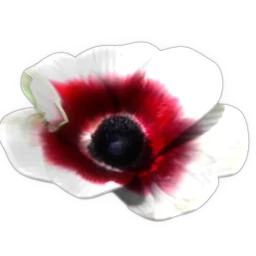
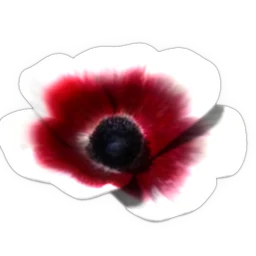
psyche-0.com: the anemone's white-violet, lilac and white/red-ring flowers repaired after the model: the photographs' own petal edges, folds, frills and curled petal removed, colour and fine material kept, every edge and shadow from the model; the scarlet row unchanged

diff --git a/assets/anemone.js b/assets/anemone.js
@@ -4,7 +4,7 @@
 (function(){
   var mark=document.querySelector("header.site .bar a.mark");
   if(!mark||document.querySelector(".anemone"))return;
-  var M={"size":256,"na":72,"looks":[{"name":"S_L","er":29.21,"prof":[130.4,129.8,128.3,123.7,107.9,108.8,107.9,106.7,105.5,101.9,97.3,94.3,92.2,89.4,84.3,78.2,71.9,63.7,58.5,54.0,52.8,55.2,59.1,63.4,67.6,70.9,72.8,74.3,75.5,77.3,83.7,93.1,102.5,109.5,113.7,116.4,121.0,123.1,121.0,111.3,97.0,103.4,115.2,119.5,115.8,113.1,111.6,107.9,100.7,96.1,96.7,97.9,97.3,96.1,95.8,97.9,101.0,102.8,101.9,100.4,108.5,115.5,118.5,121.0,123.7,123.7,119.8,113.1,108.2,123.1,128.3,129.8]},{"name":"S_F","er":30.47,"prof":[106.7,99.4,101.5,103.5,103.8,103.5,102.5,98.9,94.0,94.7,100.2,102.8,103.8,104.3,104.3,104.8,103.3,101.5,99.1,94.7,91.6,95.8,98.4,100.7,100.7,99.7,97.9,94.7,90.9,86.2,81.3,88.0,95.0,100.4,103.3,104.1,104.3,104.1,103.8,102.0,97.1,97.9,101.7,103.3,103.3,103.5,104.1,104.3,103.5,101.2,98.6,93.2,85.2,90.9,94.7,97.3,99.9,100.2,99.1,97.3,94.5,91.1,86.5,93.2,102.5,107.4,111.1,113.4,113.9,114.4,113.6,111.8]},{"name":"S_R","er":27.41,"prof":[101.3,98.9,98.1,96.6,94.4,89.2,82.9,74.7,68.9,71.0,72.3,72.9,72.6,72.9,73.1,73.1,72.3,72.6,78.7,86.3,93.7,100.0,102.6,104.7,106.6,109.2,110.5,110.2,107.3,101.0,97.3,108.7,114.7,117.6,117.6,116.8,114.7,108.9,110.0,111.8,112.1,110.0,108.9,110.0,110.8,109.4,106.6,101.6,97.9,102.3,104.2,104.7,106.3,106.8,103.7,98.9,92.9,95.5,107.1,113.9,115.5,116.0,116.3,116.3,114.4,111.6,104.7,98.9,103.4,105.0,104.4,103.1]},{"name":"W_R","er":32.91,"prof":[114.1,115.4,119.9,121.1,120.4,119.1,116.6,111.1,101.6,94.2,100.6,103.9,105.4,104.1,100.4,94.9,91.7,87.7,82.7,79.2,81.4,83.7,85.4,87.4,89.9,90.2,89.7,87.7,86.2,86.2,85.4,83.9,81.9,79.2,74.2,68.2,74.9,82.9,89.4,93.7,96.9,99.4,102.1,102.6,100.6,103.9,108.9,110.9,109.4,106.9,104.1,100.1,93.7,101.6,109.9,112.1,113.4,112.9,113.1,113.9,114.1,108.4,97.4,90.9,100.6,106.9,112.9,116.4,117.1,117.6,118.4,117.4]},{"name":"W_F","er":30.95,"prof":[114.2,111.7,106.1,98.1,100.4,105.3,108.3,108.3,107.1,106.1,103.8,99.7,94.3,87.2,88.2,89.2,90.0,90.0,91.3,91.0,90.0,87.2,83.6,77.0,80.8,88.5,93.8,97.4,100.2,102.2,103.2,103.8,102.7,101.2,99.7,97.6,93.6,87.2,92.0,96.4,99.7,101.5,102.5,103.0,101.5,98.4,97.4,102.5,104.5,104.5,105.0,104.3,102.7,100.4,97.1,91.3,86.7,97.9,104.5,107.8,108.6,109.4,110.1,109.9,108.3,105.8,103.0,108.1,111.7,113.4,115.0,115.2]},{"name":"W_L","er":27.07,"prof":[83.2,85.7,91.4,94.9,95.1,93.7,90.3,83.8,77.5,74.1,72.4,71.2,69.2,66.9,64.4,61.5,64.9,67.5,70.6,73.8,77.8,81.5,83.8,85.2,85.7,86.0,88.3,91.4,94.0,94.6,93.2,79.5,84.0,98.3,113.1,120.8,125.6,125.1,120.5,123.6,123.9,120.5,114.5,111.7,108.5,102.6,94.0,96.0,109.1,113.9,116.5,119.4,120.5,120.2,122.2,123.6,119.9,109.4,115.4,121.6,123.9,123.3,123.1,123.6,123.3,119.6,115.7,117.6,117.1,115.7,111.1,98.3]},{"name":"P_L","er":31.34,"prof":[119.3,113.3,118.2,128.7,133.0,134.7,134.7,132.4,122.4,114.5,105.1,94.8,85.7,83.1,78.9,74.9,71.8,69.8,68.3,66.3,63.8,61.5,63.2,64.9,66.6,69.8,72.9,76.6,80.9,87.7,93.4,97.4,99.4,101.9,104.8,103.6,99.7,99.1,107.1,115.0,120.2,121.3,119.0,112.8,104.8,84.8,96.0,102.5,103.9,103.9,104.5,103.9,101.9,99.7,98.2,96.2,99.1,101.1,104.5,107.6,108.8,107.9,107.3,106.8,105.9,102.5,106.5,113.9,118.4,119.3,118.7,119.0]},{"name":"P_F","er":33.18,"prof":[97.3,98.6,97.8,96.8,95.3,93.2,89.7,84.6,87.1,93.0,97.6,101.4,102.9,103.7,104.4,104.9,103.9,101.1,96.3,90.9,84.3,81.8,88.4,92.2,94.3,95.3,95.8,95.8,95.3,93.7,97.8,104.4,107.8,110.6,112.1,111.8,111.3,109.8,107.0,101.9,94.8,96.5,100.4,101.9,101.6,102.1,101.4,99.9,96.8,92.5,88.9,96.3,101.6,104.2,105.7,107.8,109.0,108.5,106.5,102.7,96.8,101.6,105.5,107.2,108.3,110.0,110.6,109.5,107.2,102.9,94.5,95.0]},{"name":"P_R","er":32.13,"prof":[97.4,93.5,88.9,85.2,82.4,78.8,73.8,70.2,73.6,77.7,81.3,83.9,86.8,89.9,92.7,94.3,95.3,96.9,98.4,98.4,95.3,97.2,101.6,106.0,109.6,111.4,113.2,114.0,112.7,108.5,97.9,82.4,95.9,105.4,113.5,116.8,116.8,116.3,113.0,110.4,107.8,102.3,101.0,102.3,101.8,101.6,100.3,99.0,94.8,88.9,81.9,91.7,101.8,107.3,111.1,111.4,110.1,109.1,108.3,104.1,101.3,107.8,111.9,114.0,114.8,115.0,113.7,109.1,103.1,97.7,99.0,98.7]},{"name":"C_R","er":42.89,"prof":[109.5,108.7,107.4,106.6,105.9,104.0,99.0,92.8,83.6,82.8,84.6,85.7,85.7,85.9,85.7,84.9,82.8,89.1,96.2,103.2,108.7,110.8,112.4,112.9,114.8,114.8,112.7,107.4,95.6,103.0,109.3,112.7,114.2,112.1,110.6,106.6,98.8,101.4,101.9,101.7,99.0,97.0,97.2,97.7,97.7,95.6,93.0,87.8,83.6,87.8,90.4,91.2,92.5,94.1,94.9,92.0,88.3,84.6,82.0,96.7,105.9,109.5,110.8,111.9,113.5,113.2,112.4,109.3,100.9,105.1,108.5,109.3]},{"name":"C_F","er":42.03,"prof":[103.6,96.9,97.9,100.5,101.0,101.3,100.5,97.6,93.5,89.6,96.9,100.5,101.8,102.8,103.6,104.1,103.6,102.1,100.5,97.6,91.4,95.1,98.7,101.8,102.8,101.8,100.8,98.2,94.3,90.1,83.9,89.9,97.1,103.1,106.5,107.2,107.5,107.2,106.5,104.1,99.5,101.3,104.9,105.9,105.7,105.9,106.5,105.9,104.4,101.5,97.9,90.4,88.1,92.5,95.6,97.9,99.2,98.9,97.4,94.8,91.4,87.8,82.4,93.5,101.3,105.7,108.3,110.3,110.9,111.1,110.6,108.8]},{"name":"C_L","er":42.42,"prof":[118.6,120.4,121.9,121.6,119.2,112.3,103.9,106.9,106.6,106.9,105.7,103.3,100.6,99.4,98.5,95.8,90.1,85.0,79.9,73.0,68.2,65.8,69.7,75.7,81.1,85.0,87.1,88.3,90.1,94.3,103.3,112.6,120.1,123.4,125.5,129.4,129.7,125.2,109.6,100.6,112.9,118.6,118.6,112.6,109.0,105.7,98.5,88.9,88.6,88.6,87.4,85.6,83.8,82.9,84.4,86.5,87.7,87.4,85.3,87.1,93.4,99.4,102.4,104.2,107.2,109.0,107.2,103.9,98.2,94.6,110.8,116.8]}],"rot":[15.0,-45.0,45.0,15.0,-45.0,35.0,-25.0,0.0,30.0,20.0,-15.0,0.0]};
+  var M={"size":256,"na":72,"looks":[{"name":"S_L","er":29.21,"prof":[130.4,129.8,128.3,123.7,107.9,108.8,107.9,106.7,105.5,101.9,97.3,94.3,92.2,89.4,84.3,78.2,71.9,63.7,58.5,54.0,52.8,55.2,59.1,63.4,67.6,70.9,72.8,74.3,75.5,77.3,83.7,93.1,102.5,109.5,113.7,116.4,121.0,123.1,121.0,111.3,97.0,103.4,115.2,119.5,115.8,113.1,111.6,107.9,100.7,96.1,96.7,97.9,97.3,96.1,95.8,97.9,101.0,102.8,101.9,100.4,108.5,115.5,118.5,121.0,123.7,123.7,119.8,113.1,108.2,123.1,128.3,129.8]},{"name":"S_F","er":30.47,"prof":[106.7,99.4,101.5,103.5,103.8,103.5,102.5,98.9,94.0,94.7,100.2,102.8,103.8,104.3,104.3,104.8,103.3,101.5,99.1,94.7,91.6,95.8,98.4,100.7,100.7,99.7,97.9,94.7,90.9,86.2,81.3,88.0,95.0,100.4,103.3,104.1,104.3,104.1,103.8,102.0,97.1,97.9,101.7,103.3,103.3,103.5,104.1,104.3,103.5,101.2,98.6,93.2,85.2,90.9,94.7,97.3,99.9,100.2,99.1,97.3,94.5,91.1,86.5,93.2,102.5,107.4,111.1,113.4,113.9,114.4,113.6,111.8]},{"name":"S_R","er":27.41,"prof":[101.3,98.9,98.1,96.6,94.4,89.2,82.9,74.7,68.9,71.0,72.3,72.9,72.6,72.9,73.1,73.1,72.3,72.6,78.7,86.3,93.7,100.0,102.6,104.7,106.6,109.2,110.5,110.2,107.3,101.0,97.3,108.7,114.7,117.6,117.6,116.8,114.7,108.9,110.0,111.8,112.1,110.0,108.9,110.0,110.8,109.4,106.6,101.6,97.9,102.3,104.2,104.7,106.3,106.8,103.7,98.9,92.9,95.5,107.1,113.9,115.5,116.0,116.3,116.3,114.4,111.6,104.7,98.9,103.4,105.0,104.4,103.1]},{"name":"W_R","er":32.65,"prof":[112.7,115.2,119.1,119.9,119.1,117.9,115.4,109.4,99.9,93.2,99.4,102.7,103.7,102.7,99.2,93.9,90.4,86.9,82.7,77.4,80.4,82.4,84.2,86.7,88.9,89.7,89.2,87.4,86.7,85.9,85.9,84.7,82.9,80.7,75.9,68.2,74.9,82.7,89.2,93.9,97.7,100.2,103.2,103.9,101.9,105.2,110.2,112.4,110.9,108.2,105.4,101.4,94.4,103.9,110.9,113.4,114.7,113.9,113.9,114.7,114.4,107.9,95.4,93.4,101.9,107.9,113.2,116.1,116.9,117.1,118.1,116.1]},{"name":"W_F","er":29.98,"prof":[111.1,108.5,102.4,94.5,97.6,102.4,105.5,105.2,104.5,104.0,101.7,98.1,92.7,86.9,85.4,87.4,88.2,88.7,89.4,89.7,89.7,87.6,84.3,80.0,77.5,86.1,92.7,97.6,100.4,102.9,104.5,105.5,105.0,103.7,102.2,100.4,97.1,90.7,93.8,98.9,102.2,104.2,105.2,105.7,104.0,100.1,100.4,105.2,106.5,106.8,106.8,106.0,103.4,100.9,96.8,89.9,92.2,100.9,105.7,108.0,108.8,109.6,109.6,108.8,106.5,104.0,102.4,107.5,110.1,111.9,112.9,112.6]},{"name":"W_L","er":27.13,"prof":[82.6,85.2,90.9,94.3,94.6,93.7,90.6,83.7,77.5,73.8,72.3,70.6,69.2,66.9,64.4,61.5,64.4,67.2,70.3,73.5,77.8,81.5,83.7,85.2,85.7,86.6,88.9,91.4,94.3,94.8,93.7,83.2,84.0,98.8,113.3,121.3,126.2,125.6,121.0,124.2,124.5,120.5,114.8,112.2,109.1,102.5,94.0,96.8,109.4,113.9,117.1,119.9,120.5,120.8,121.9,123.0,119.3,108.5,115.3,121.3,123.9,123.3,122.7,123.3,122.7,119.0,115.1,116.8,116.5,115.1,110.5,97.7]},{"name":"P_L","er":31.43,"prof":[115.1,106.8,117.4,125.0,129.0,130.7,130.2,127.9,119.1,111.1,102.8,92.6,82.9,80.6,77.8,73.2,70.1,68.1,66.7,65.2,63.8,61.5,60.7,62.9,64.7,67.5,70.9,74.6,79.2,85.7,93.1,98.6,101.7,104.2,107.4,107.4,104.5,101.1,109.7,117.6,124.2,126.2,123.6,116.8,107.7,91.7,101.7,107.1,107.4,107.7,107.7,106.2,103.7,102.0,100.0,99.7,101.4,104.0,106.8,109.4,108.8,107.4,106.5,106.0,103.4,98.8,107.7,113.6,116.2,116.2,115.6,115.9]},{"name":"P_F","er":33.0,"prof":[97.3,98.8,98.3,97.0,96.0,94.0,90.2,85.6,87.1,93.0,97.5,101.6,103.7,104.2,104.7,105.7,104.7,101.9,97.0,91.4,84.6,83.0,89.6,93.0,94.2,95.5,96.3,96.3,95.5,93.5,99.1,104.7,108.0,110.5,112.1,111.8,111.3,109.5,106.2,101.1,94.5,96.3,100.1,101.1,100.9,101.1,101.1,99.1,96.0,91.7,88.4,95.8,100.9,103.4,104.9,107.0,108.2,108.2,106.2,102.6,96.5,100.9,104.7,106.7,108.0,109.5,110.3,109.8,107.5,102.9,95.8,94.7]},{"name":"P_R","er":31.89,"prof":[96.5,92.3,87.7,84.0,80.7,76.8,72.1,69.3,72.6,76.5,80.1,82.7,85.3,88.7,91.0,92.9,93.9,95.4,97.0,97.0,94.4,95.7,99.9,104.3,107.9,110.2,111.8,113.1,112.6,109.2,100.1,79.6,92.9,104.3,112.8,116.7,117.5,117.0,114.4,111.8,108.9,104.8,101.9,103.5,103.7,103.0,101.9,100.9,96.7,90.8,83.5,93.1,103.5,109.5,112.8,112.6,111.8,110.7,109.5,105.0,103.2,110.0,113.3,114.9,115.4,115.4,113.9,108.9,102.2,98.3,99.1,98.6]},{"name":"C_R","er":43.5,"prof":[109.8,109.3,107.2,106.7,106.4,103.8,99.1,92.0,82.8,82.8,84.4,85.4,85.7,85.2,84.9,84.4,82.8,88.9,95.7,102.7,108.2,110.3,111.9,112.4,114.0,114.3,111.9,106.7,95.1,102.0,108.5,112.2,113.2,111.7,110.1,106.7,99.1,100.9,101.7,101.4,99.3,97.2,96.7,97.2,97.8,96.5,93.0,88.3,83.9,88.1,90.7,91.7,92.8,94.9,95.4,93.3,89.4,85.2,82.6,97.2,106.7,110.1,111.7,112.7,114.0,113.8,113.0,109.0,100.6,105.9,108.8,110.1]},{"name":"C_F","er":41.54,"prof":[101.5,94.2,96.8,98.6,99.2,98.9,98.1,95.0,91.1,87.3,94.8,98.6,99.9,100.7,101.5,102.0,102.0,101.0,99.4,96.8,91.7,92.7,97.1,100.7,102.3,101.8,100.7,98.9,96.1,91.4,86.5,89.3,97.1,103.0,106.9,108.7,109.0,108.7,108.5,106.9,102.3,103.0,106.7,108.0,107.7,108.0,108.5,108.0,106.2,103.6,99.4,90.4,91.1,94.8,97.6,99.4,100.7,99.9,97.9,94.5,91.4,86.7,80.8,95.5,102.0,106.2,108.2,109.8,110.3,110.0,109.3,106.7]},{"name":"C_L","er":43.61,"prof":[117.4,118.9,120.4,120.4,119.2,113.5,102.1,106.0,106.3,106.6,105.7,103.9,101.2,100.0,98.8,97.0,92.5,87.4,82.3,75.1,70.3,67.0,70.3,76.0,82.3,86.5,88.6,90.1,91.9,96.1,105.7,115.0,121.6,124.9,127.6,131.5,130.9,124.9,107.2,103.3,115.0,119.5,117.4,112.0,109.0,104.5,96.4,89.2,88.6,88.0,86.8,84.4,82.9,82.6,83.2,85.6,86.5,85.6,83.5,86.8,92.8,97.3,100.3,102.7,105.4,107.5,105.7,102.4,97.3,92.2,108.1,114.7]}],"rot":[15.0,-45.0,45.0,-35.0,-40.0,35.0,-25.0,0.0,30.0,20.0,-15.0,0.0]};
   var LOOKS=M.looks,NA=M.na,S=M.size,ROT=M.rot,N=LOOKS.length;
   var HOLD=30000,TRANS=90000,SEG=HOLD+TRANS,PERIOD=SEG*N;
   var css=document.createElement("style");

diff --git a/map.html b/map.html
@@ -104,6 +104,6 @@ If you don’t win: Signal completed.</pre>
   <span>psyche-0.com</span>
 </div></div></footer>
 <script src="assets/console.js?v=20261026a"></script>
-<script src="assets/anemone.js?v=20261104c" defer></script>
+<script src="assets/anemone.js?v=20261104d" defer></script>
 </body>
 </html>

diff --git a/net.html b/net.html
@@ -219,7 +219,7 @@
   <span>psyche-0.com</span>
 </div></div></footer>
 <script src="assets/console.js?v=20261026a"></script>
-<script src="assets/anemone.js?v=20261104c" defer></script>
+<script src="assets/anemone.js?v=20261104d" defer></script>
 <script>
 (function(){
 var NS="http://www.w3.org/2000/svg";

diff --git a/engage.html b/engage.html
@@ -140,6 +140,6 @@
   <span>psyche-0.com</span>
 </div></div></footer>
 <script src="assets/console.js?v=20261026a"></script>
-<script src="assets/anemone.js?v=20261104c" defer></script>
+<script src="assets/anemone.js?v=20261104d" defer></script>
 </body>
 </html>

diff --git a/about.html b/about.html
@@ -56,6 +56,6 @@
   <span>psyche-0.com</span>
 </div></div></footer>
 <script src="assets/console.js?v=20261026a"></script>
-<script src="assets/anemone.js?v=20261104c" defer></script>
+<script src="assets/anemone.js?v=20261104d" defer></script>
 </body>
 </html>

diff --git a/index.html b/index.html
@@ -63,6 +63,6 @@
   <span>psyche-0.com</span>
 </div></div></footer>
 <script src="assets/console.js?v=20261026a"></script>
-<script src="assets/anemone.js?v=20261104c" defer></script>
+<script src="assets/anemone.js?v=20261104d" defer></script>
 </body>
 </html>

diff --git a/intelligence.html b/intelligence.html
@@ -79,6 +79,6 @@
   <span>psyche-0.com</span>
 </div></div></footer>
 <script src="assets/console.js?v=20261026a"></script>
-<script src="assets/anemone.js?v=20261104c" defer></script>
+<script src="assets/anemone.js?v=20261104d" defer></script>
 </body>
 </html>

diff --git a/missions.html b/missions.html
@@ -72,6 +72,6 @@
   <span>psyche-0.com</span>
 </div></div></footer>
 <script src="assets/console.js?v=20261026a"></script>
-<script src="assets/anemone.js?v=20261104c" defer></script>
+<script src="assets/anemone.js?v=20261104d" defer></script>
 </body>
 </html>

diff --git a/paper.html b/paper.html
@@ -65,6 +65,6 @@
   <span>psyche-0.com</span>
 </div></div></footer>
 <script src="assets/console.js?v=20261026a"></script>
-<script src="assets/anemone.js?v=20261104c" defer></script>
+<script src="assets/anemone.js?v=20261104d" defer></script>
 </body>
 </html>

diff --git a/sqcd-1.html b/sqcd-1.html
@@ -99,6 +99,6 @@
   <span>psyche-0.com</span>
 </div></div></footer>
 <script src="assets/console.js?v=20261026a"></script>
-<script src="assets/anemone.js?v=20261104c" defer></script>
+<script src="assets/anemone.js?v=20261104d" defer></script>
 </body>
 </html>

diff --git a/404.html b/404.html
@@ -32,6 +32,6 @@
     <div class="row-cta"><a class="ghost" href="/">Overview</a></div>
   </div>
 </section>
-<script src="assets/anemone.js?v=20261104c" defer></script>
+<script src="assets/anemone.js?v=20261104d" defer></script>
 </body>
 </html>
